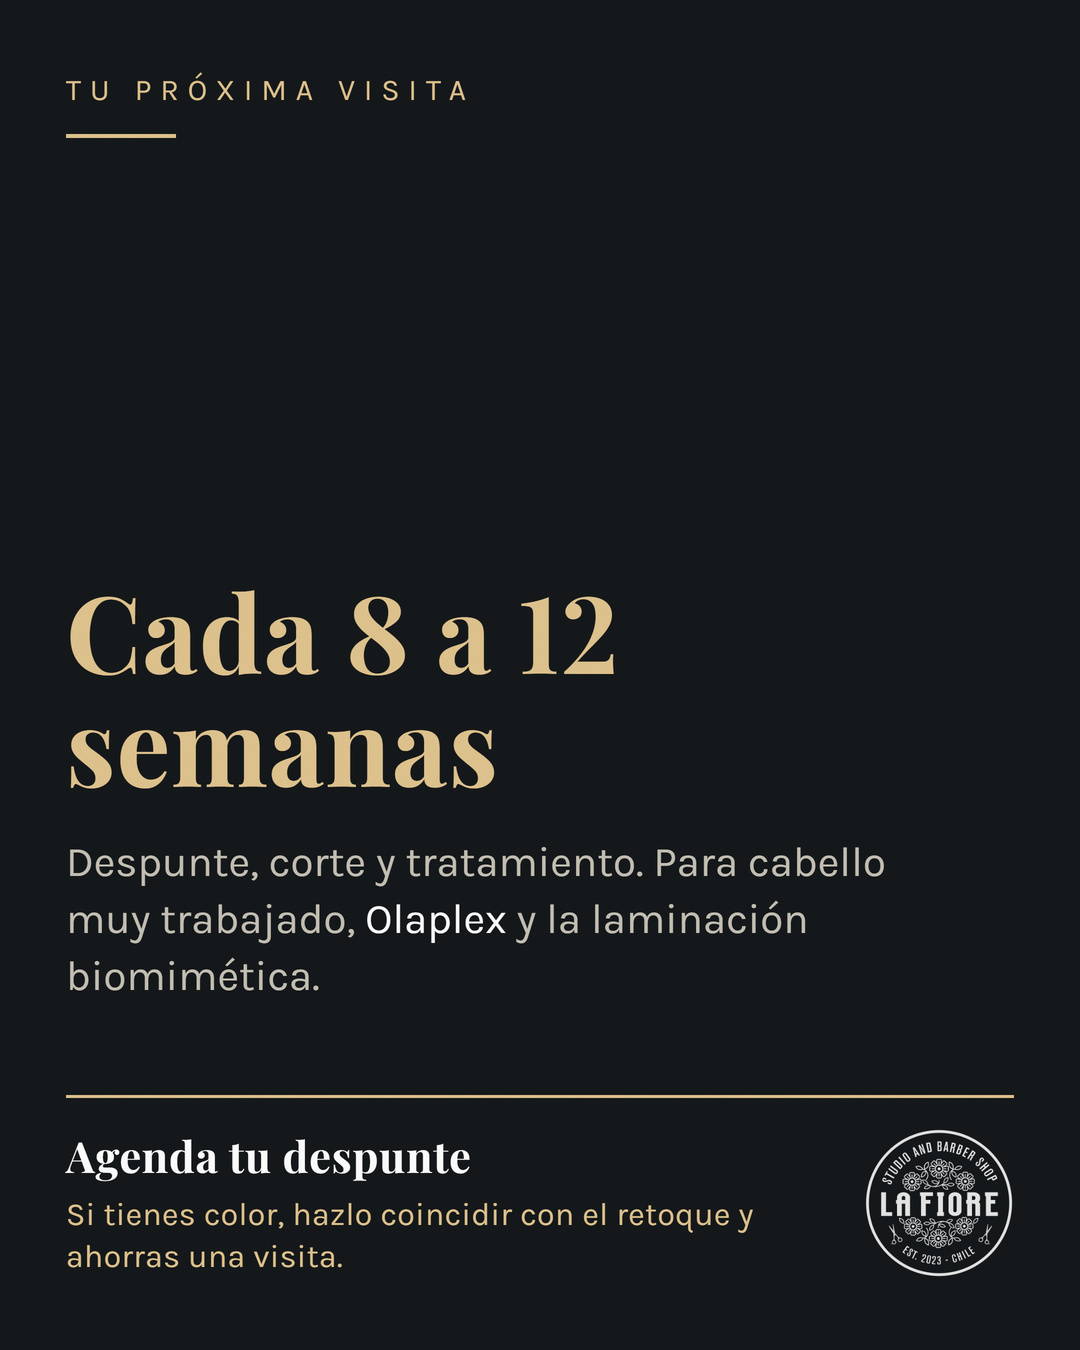
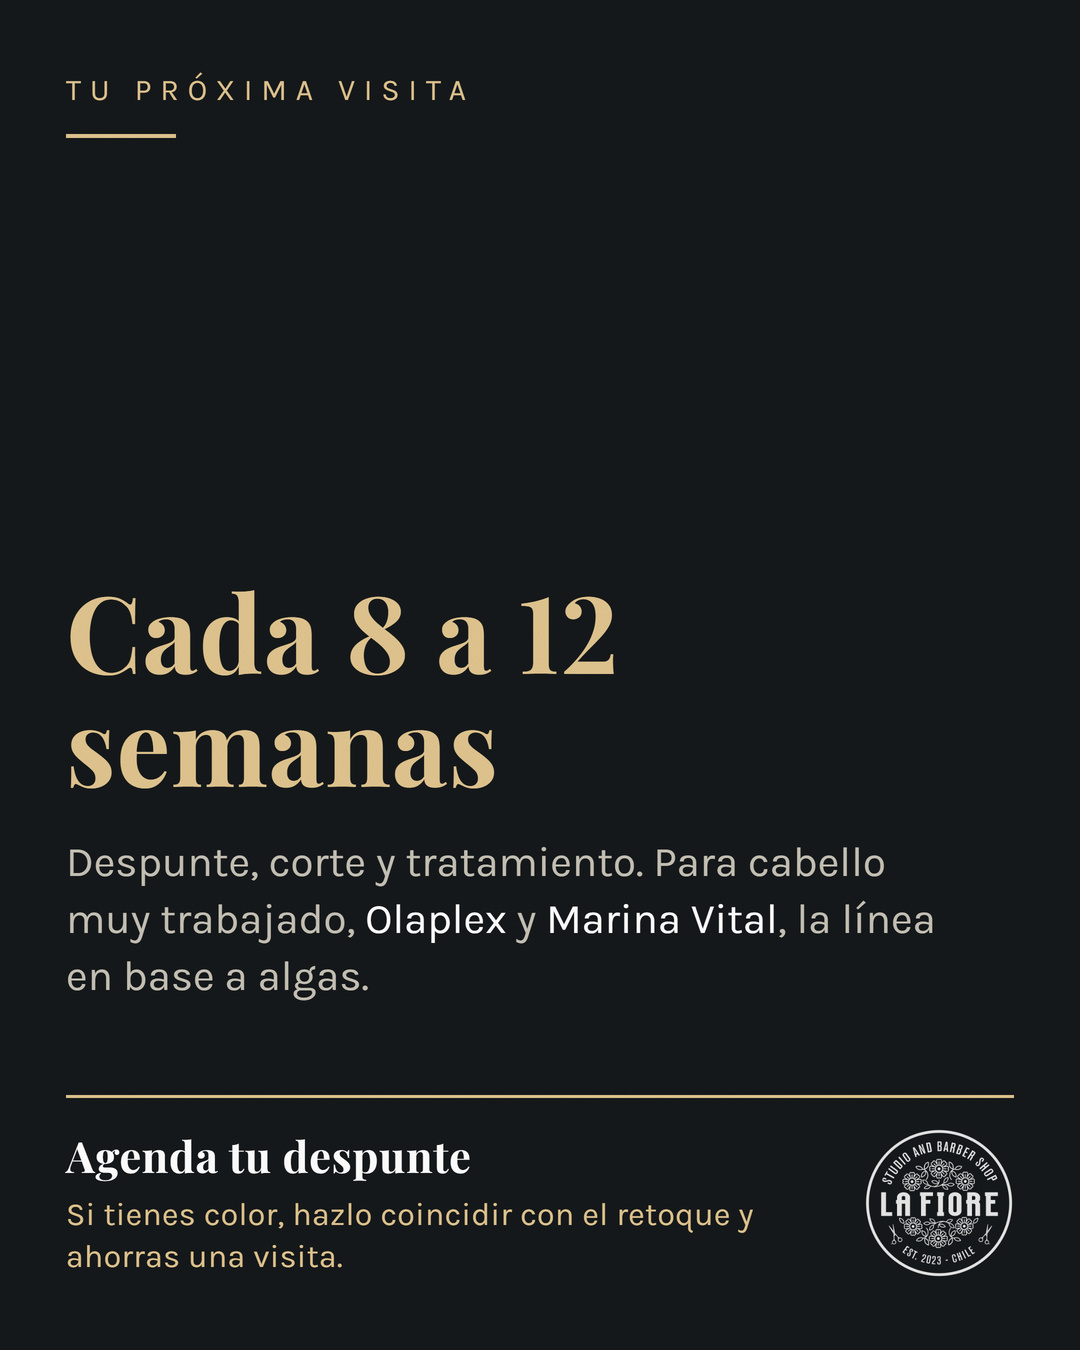
set 07: nombra Marina Vital junto a Olaplex
El salón trabaja también la línea Marina Vital, en base a algas, y quedó
fuera del carrusel de color. Las marcas de producto no aparecen en el export
de servicios de AgendaPro, así que no se deducen del catálogo.

Changed region(s): [[0.4889, 0.6533, 0.7639, 0.7156], [0.0611, 0.7156, 0.3361, 0.7467], [0.7944, 0.6533, 0.8556, 0.7156]]

diff --git a/contenido/sets.py b/contenido/sets.py
@@ -443,8 +443,8 @@ SETS = [
         "cierre": {
             "ante": "Tu próxima visita",
             "plazo": "Cada 8 a 12 semanas",
-            "detalle": "Despunte, corte y tratamiento. "
-                       "Para cabello muy trabajado, **Olaplex** y la laminación biomimética.",
+            "detalle": "Despunte, corte y tratamiento. Para cabello muy trabajado, "
+                       "**Olaplex** y **Marina Vital**, la línea en base a algas.",
             "cta": "Agenda tu despunte",
             "sub": "Si tienes color, hazlo coincidir con el retoque y ahorras una visita.",
         },
